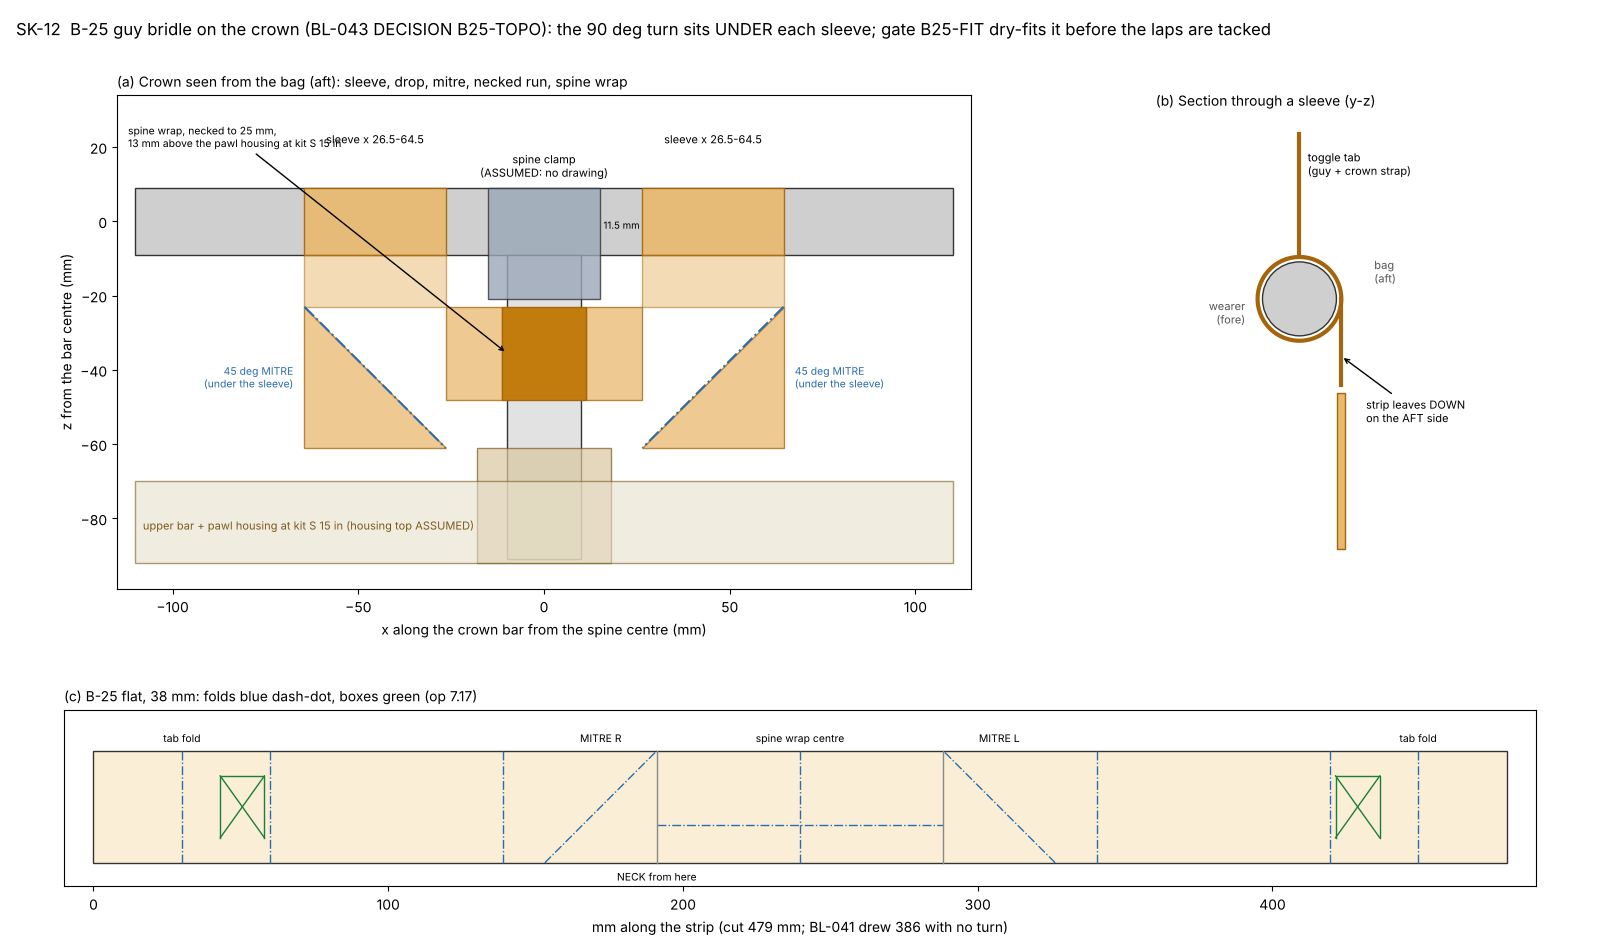
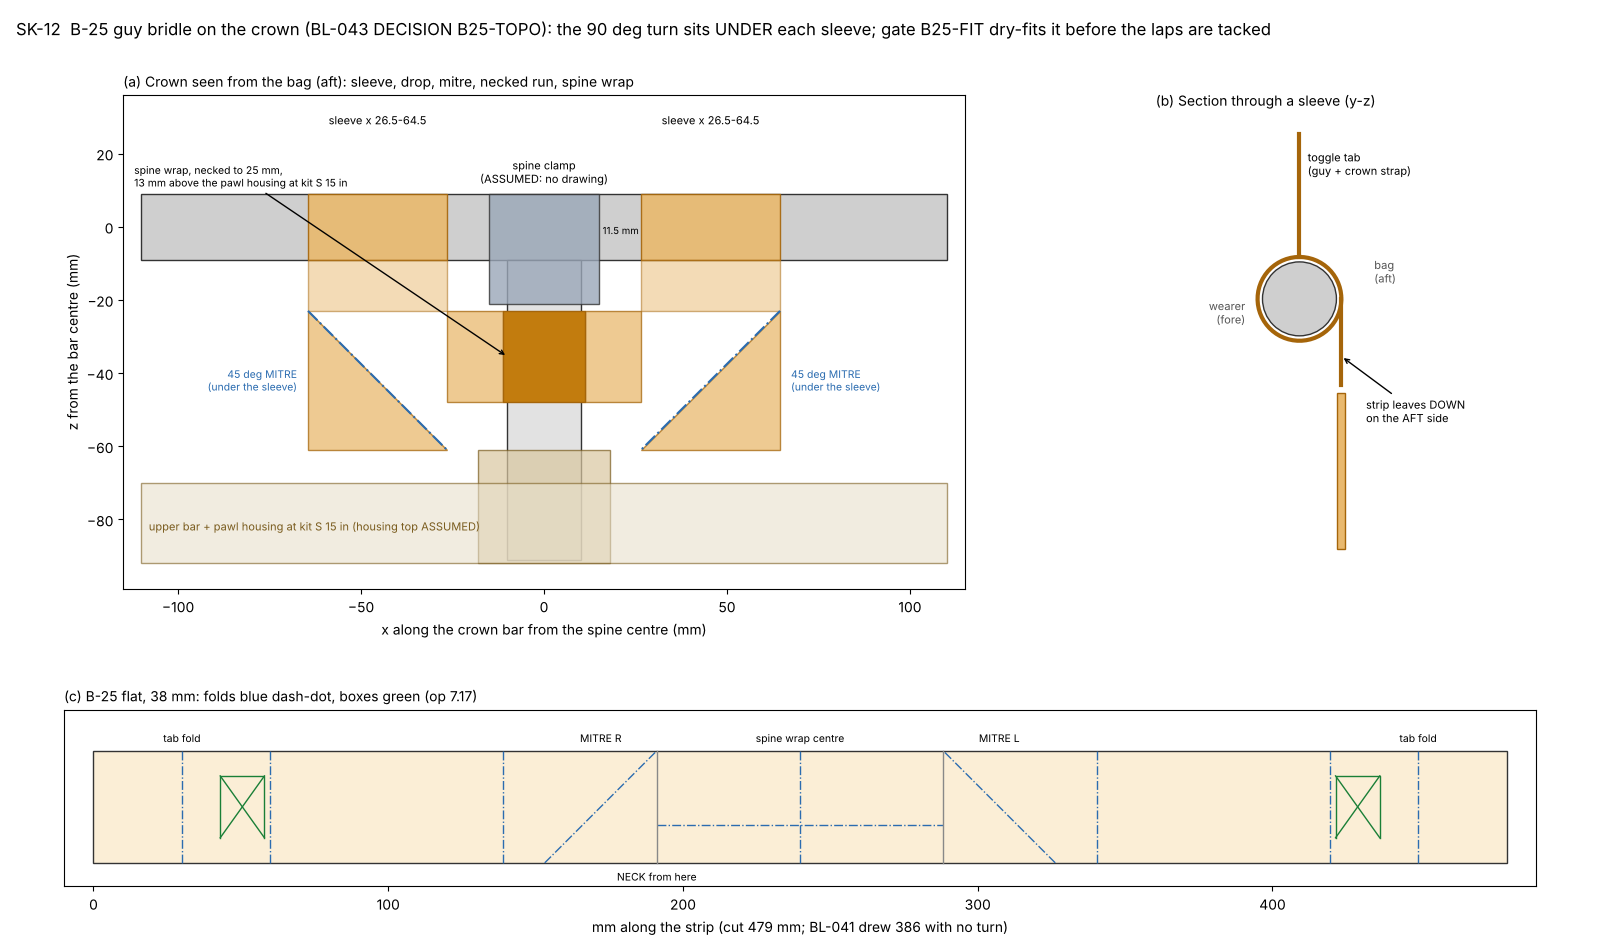
BL-043: W3-over, roll-clip origin re-modelled, B-25 topology drawn; tickets BL-044/045
Claude-Session: https://claude.ai/code/session_01QS5dr7h3sQbDVRoMy755JN

diff --git a/tests/test_corrie_f_top_anchor.py b/tests/test_corrie_f_top_anchor.py
@@ -92,7 +92,7 @@ def test_rev3_swaps_the_pouch_for_the_lid_and_keeps_base_as_rev2():
     import strap_tails as ST
     bl031 = sum(g for s, n, g, c, src in ST.bag_rows() if c == "base")
     # BL-035: rev 3 also books the rifle muzzle keepers (corrie_f.muzzle_keeper; rev 2 stays as booked)
-    bl041 = sum(r["g"] for r in r3 if r["name"].startswith("BL-041") and r["cfg"] == "base")   # BL-041 rev 3 rows
+    bl041 = sum(r["g"] for r in r3 if r["name"].startswith(("BL-041", "BL-043")) and r["cfg"] == "base")   # BL-041 + BL-043 rev 3 rows
     assert base3 == pytest.approx(base2 + bl031 + F.muzzle_keeper()["mass_g"] + bl041, abs=0.02)
     hunted = lambda rows: sum(r["g"] for r in rows if r["cfg"] in ("base", "as_hunted"))  # noqa: E731
     d = hunted(r3) - hunted(r2)

diff --git a/docs/DECISIONS.md b/docs/DECISIONS.md
@@ -168,3 +168,5 @@
 | 2026-11-13 | **Orchestrator plan:** the frame side goes first. BL-042 (structural-fea-engineer) fixes the H1 export so all fairleads and pin holes are complete, adds a real geometric check, and sets the hinge fairlead clearance for a 3-ply webbing eye (frame-side fix preferred over bag-side guessing). In parallel, BL-043 (pack-designer) takes M-1, M-2, M-4 and the minors that don't depend on the hinge; the hinge eye (Z-1, M-3) follows BL-042 | orchestrator | `docs/backlog/BL-042-h1-fairleads.md`, `BL-043-third-review-fixes.md` |
 | 2026-11-13 | **BL-042 result:** H1 print files re-exported with all 12 fairleads complete, verified by an STL slice check (old file 0/12, new 12/12; holes 7.0 mm printed, reamed to 7.2). Hinge fairlead: gap under the pin 1.9 → 5.5 mm, throat 18 → 20 mm, plus a saddle root (strength 2.97 → 3.73; the sim-load sideways hinge fatigue, never run before, 0.79 → 1.17). Body margins move ≤ 0.006. Frame +37.2 g (ledger H1F). Standalone HE-FIT and IM3-EC test pieces exported | structural-fea-engineer | `analysis/h1_fairleads.md` |
 | 2026-11-13 | **Orchestrator calls:** accept +37.2 g and a hinge pin about 2 mm longer. The H1 print files are printable again (pending R1 tests). Next, BL-044 (after BL-043): re-solve the hinge eye against `bag_attach.HINGE_EYE_ENVELOPE`, check whether the IM/US hooks and eyes also wrap their pins (1.9 mm gap), and fix the loose island in the lower half | orchestrator | — |
+| 2026-11-13 | **BL-043 result:** M-1: no gusset guide can work, because W3 rides z 601–804 and lies on the roll at kits M/L. **W3-OVER**: W3 is the outer layer, and the user unhooks W3 to open the roll top; W3G deleted; RTM buckle moved to z 543.5, ≥ 10 mm clear at all six kit corners. M-2: RT origin back at the roll end, RT cut 510 → 560 mm (re-modelled). M-4: B-25 topology drawn (45° mitre under the sleeve, run necked to 25 mm, cut 479 mm, gate B25-FIT; the TL-1 specimen is the as-built half bridle). Hose slot lowered to z 558. 12 minors fixed. Ledger +2.9 g | pack-designer | `corrie_f_body.md` §22 |
+| 2026-11-13 | **Orchestrator calls (owner may override):** accept W3-OVER (unhook W3 before opening the roll top; the alternative is moving W3's anchors off the crown bar, which is a frame change). Next, in parallel: BL-044 (pack-designer) for the hinge eye on the new envelope, K-W keeper kink and stale text/renders; BL-045 (structural-fea-engineer) for the crown-tube recheck with the mitre under the sleeve, the spine-clamp drawing, the IM/US fairlead clearance and the lower-half loose island | orchestrator | `docs/backlog/BL-044…`, `BL-045…` |

diff --git a/docs/backlog/BL-044-hinge-eye-final.md b/docs/backlog/BL-044-hinge-eye-final.md
@@ -1,0 +1,16 @@
+# BL-044 Hinge eye on the new fairlead, and the bag-side loose ends
+
+**Agent:** pack-designer · **Size:** M · **Depends on:** BL-042, BL-043 · **Beside:** BL-045
+
+1. **Hinge eye:** re-solve HE, its box and the B-01 stand-off against `bag_attach.HINGE_EYE_ENVELOPE`. That envelope is a 5.5 mm gap, a 20 mm throat, the pin 10.1 mm above the stay, and the cleat tip 17.7 mm proud. Switch `he_geometry`, `concepts/corrie_f.py:537` and `huntkit/viz3d/attach.py` to it, and replace the test at `test_bl041_recheck_fixes.py:55`.
+   - Fix M-3: no peel on the box top row, and the eye legs in line with the pull. If peel can't be avoided, add a rated test: extend SEW-F or PT-3 to the hinge box shape at about 625 N peak.
+   - Fix m-1: the HE-FIT band must agree with the cheek clearance.
+   - Fix m-11 and n-6: the B-18 label overprinting the HE box.
+   - Use the BL-042 test piece `print/frame_h1/test_pieces/hefit_hinge_fairlead_R` in HE-FIT, and check the eye on that STL geometry by slicing it.
+2. **K-W keeper loops:** they are fixed at z 702.6, so W3 kinks at other torso settings. Re-place or re-shape them so W3 runs straight at every kit end, or justify keeping them.
+3. **RT strap stand-off vs rifle barrel:** check it, then record or fix.
+4. **Stale text:** the "hose ports at the collar seam" text in corrie.py, build_geometry.py and corrie_loadout.py. The notch moved onto a hem-ring notch on the L side. The test-kit screenshot names.
+5. **Hinge pin:** about 2 mm longer (20 mm throat), BOM and spec.
+6. **Weights:** regenerate the weight roll-up and mass docs (H1F +37.2 g).
+7. **Renders:** re-render the rev 3 hero and side shots so they show the current clip, hose, B-25 and W3. Prefix `20261113_BL044_`.
+8. **Release:** regenerate it and the kit, run the full suite, and add a test per finding. The release may say "ready to cut" only after a fourth independent review, so leave it at NOT ready.

diff --git a/docs/backlog/BL-045-crown-and-fairlead-checks.md b/docs/backlog/BL-045-crown-and-fairlead-checks.md
@@ -1,0 +1,11 @@
+# BL-045 Crown tube with the B-25 mitre; spine clamp; IM/US fairlead clearance; loose island
+
+**Agent:** structural-fea-engineer · **Size:** M · **Beside:** BL-044
+
+1. **Crown tube:** BL-043 put B-25's 45° mitre and its 25 mm necked run under the 38 mm sleeve (`corrie_f.b25_topology`, sketch SK-12). Re-check `crown_tube_guy_loop` for the real bearing (sleeve plus mitre layers, pull direction), and confirm or correct SF 1.36 / 1.27.
+2. **Spine clamp:** the frame files have no spine-clamp drawing. BL-043 assumed a 15 mm half-width and a 12 mm collar, plus a pawl housing 20 mm tall and ±18 mm wide. Produce the real dimensions from the frame model, publish them as constants, and say whether B-25's clearances hold.
+3. **IM/US fairleads:** 10 of them still have 1.9 mm under the pin and an 18 mm throat. Find out what passes round each pin: carabiners, hooks or webbing (see `corrie_f.py`, the mfg BOM and `attach_system`). If anything wraps a pin, give it a clearance envelope like the hinge's, with strength re-checked.
+4. **Lower-half export:** it drops a 571 mm³ loose island at frame (84, −0.4, 225). Find out what it is and fix it.
+5. **Stale records:** `rev_c_verification` hinge cheek record (2.97 → re-run); "fairleads present 1.000" in `h1_buckling.md` and `frame_fixed.py:712`.
+
+Don't edit `patterns_corrie_f_rev3*.py`, `mfg_corrie_f_rev3.py` or `concepts/corrie_f.py`; the pack-designer is in them. Publish constants for them to import, and run the full suite.

diff --git a/docs/backlog/README.md b/docs/backlog/README.md
@@ -92,3 +92,5 @@ Nothing here is decided; the tickets produce the material.
 | BL-041 | Fix re-review findings (2 blockers, 5 majors) | pack-designer | M | 040 | ready to cut |
 | BL-042 | H1 print files: complete fairleads, hinge pin clearance | structural-fea-engineer | M | — | printable H1 |
 | BL-043 | Third review fixes, bag side except hinge eye | pack-designer | M | — | |
+| BL-044 | Hinge eye on new fairlead; K-W kink; stale; renders | pack-designer | M | 042, 043 | |
+| BL-045 | Crown tube with mitre; spine clamp; IM/US fairleads; loose island | structural-fea-engineer | M | 042, 043 | |
